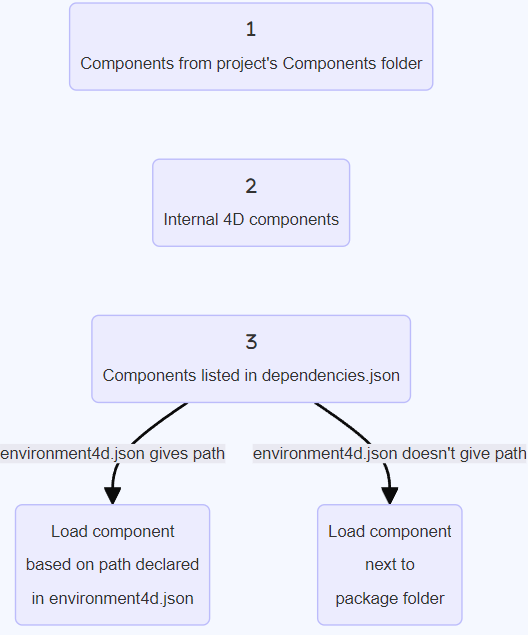
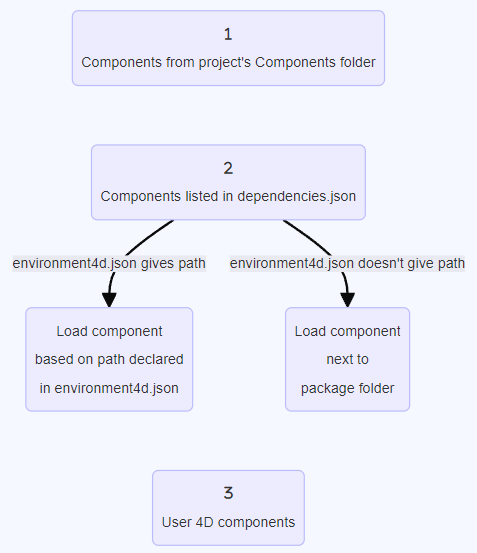
fixed components

diff --git a/docs/Project/components.md b/docs/Project/components.md
@@ -89,9 +89,11 @@ If a component path declared in the **environment4d.json** file is not found whe
 Since components can be installed in different ways, a priority order is applied when the same component is referenced at several locations:
 
 **Higest priority**
+
 1. Components stored in the [**Components** folder of the project](architecture.md#components).
-2. Internal 4D components (e.g. 4D NetKit, 4D SVG...)
-3. Components declared in the **dependencies.json** file.
+2. Components declared in the **dependencies.json** file.
+3. Internal User 4D components (e.g. 4D NetKit, 4D SVG...)
+
 **Lowest priority**
 
 ![priority](../assets/en/Project/load-sequence.png)

diff --git a/versioned_docs/version-20-R5/Project/components.md b/versioned_docs/version-20-R5/Project/components.md
@@ -89,9 +89,11 @@ If a component path declared in the **environment4d.json** file is not found whe
 Since components can be installed in different ways, a priority order is applied when the same component is referenced at several locations:
 
 **Higest priority**
+
 1. Components stored in the [**Components** folder of the project](architecture.md#components).
-2. Internal 4D components (e.g. 4D NetKit, 4D SVG...)
-3. Components declared in the **dependencies.json** file.
+2. Components declared in the **dependencies.json** file.
+3. Internal User 4D components (e.g. 4D NetKit, 4D SVG...)
+
 **Lowest priority**
 
 ![priority](../assets/en/Project/load-sequence.png)
